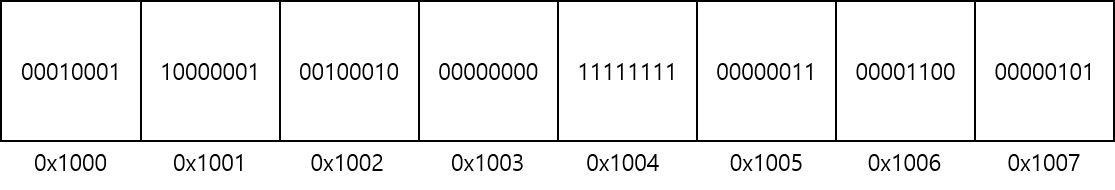
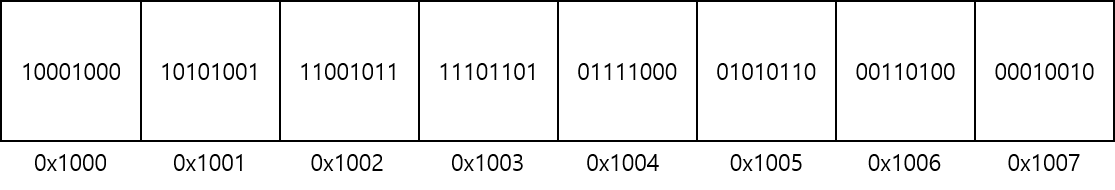
Update pointer

diff --git a/11. 포인터/README.md b/11. 포인터/README.md
@@ -14,3 +14,17 @@
 그리고 이러한 객체들은 메모리의 어느 위치에 저장되어있는지를 판단하기 위한 주소를 갖는다. 만약 주소가 없다면 변수 a를 메모리에서 찾으려고 할 때 a가 어디에 저장되어 있는지 알 수 없을 것이다. 이 주소는 0부터 시작하는 정수 값이다.  
 9단원에서 학습한 것과 같이 현대 대부분 컴퓨터 시스템의 OS 상에서 동작하는 프로그램은 가상 메모리를 바라보고, 추후 물리 메모리로는 OS와 하드웨어들이 특정한 규칙들에 맞춰 매핑해줄 것이다. 어느 경우에는 물리 메모리 주소를 직접 바라보는 특수한 소프트웨어를 작성하는 경우도 있을 것이다. 이러한 내용들을 굳이 다 고려할 필요는 없고, 메모리 상에 데이터들이 주소 값을 가지고 특정한 표현 방식으로 저장된다고 생각하면 된다.  
 
+![object](https://github.com/pr0gr4m/Hello-C-World/blob/main/img/%ED%8F%AC%EC%9D%B8%ED%84%B0/object.png?raw=true)
+
+메모리에 위 그림처럼 데이터들이 저장되어 있을 때, 실제로 어떤 값을 의미하는지는 알 수 없다. 8바이트 짜리 정수일까? 혹은 실수일까? 아니면 1바이트 짜리 정수 여덟 개일까? 만약 1바이트 정수 여러 개라면 부호가 있을까 없을까? 경우에 따라 모두 다른 값으로 해석할 수 있다.  
+부호 없는 1바이트 정수 여덟 개라면 다음과 같은 값들이 된다. ```0x88 0xa9 0xcb 0xed 0x78 0x56 0x34 0x12```  
+부호 있는 4바이트 정수 두 개라면 다음과 같은 값들이 된다. ```-0x12345678 0x12345678```  
+부호 있는 8바이트 정수 하나라면 다음과 같은 값이 된다. ```0x12345678edcba988```  
+4바이트 정수와 8바이트 정수가 본인이 해석한 값이랑 다른 것 같다면 9단원에서 학습한 리틀 엔디안을 상기하자.  
+그런데 과연 이렇게 해석한 값이 올바를까? 알고보니 0x1000, 0x1001, 0x1006, 0x1007 번지에 있는 값들은 의미 없는 값이고, 0x1002번지부터 4바이트 정수 하나가 저장되어 있을 수도 있다. 그렇다면 ```0x5678edcb``` 가 될 것이다.  
+
+이처럼 데이터는 **어느 주소부터 어느 주소까지 어떤 방식으로** 저장되고 해석할지가 중요하다. 여태까지 우리는 C언어와 컴퓨터 시스템을 통해서 이러한 과정을 신경쓰지 않고 객체와 데이터를 사용해온 것이다.  
+
+```int a = 123;``` 이라는 코드를 다시 생각해보자. int가 4바이트인 리틀 엔디안 시스템이라고 가정한다.  
+그러면 변수 a는 메모리의 어떠한 주소(ex. 0x1000)에 4바이트만큼 할당(ex. 0x1000 ~ 0x1003)하여 123이라는 값을 부호 있는 4바이트 정수 방식으로 리틀 엔디안에 맞춰 저장할 것이다. 이 후에 ```a + 3``` 와 같이 a에 접근한다면, 할당된 주소(0x1000)로부터 4바이트의 부호 있는 정수 값으로 저장된 데이터를 해석할 것이다.  
+
